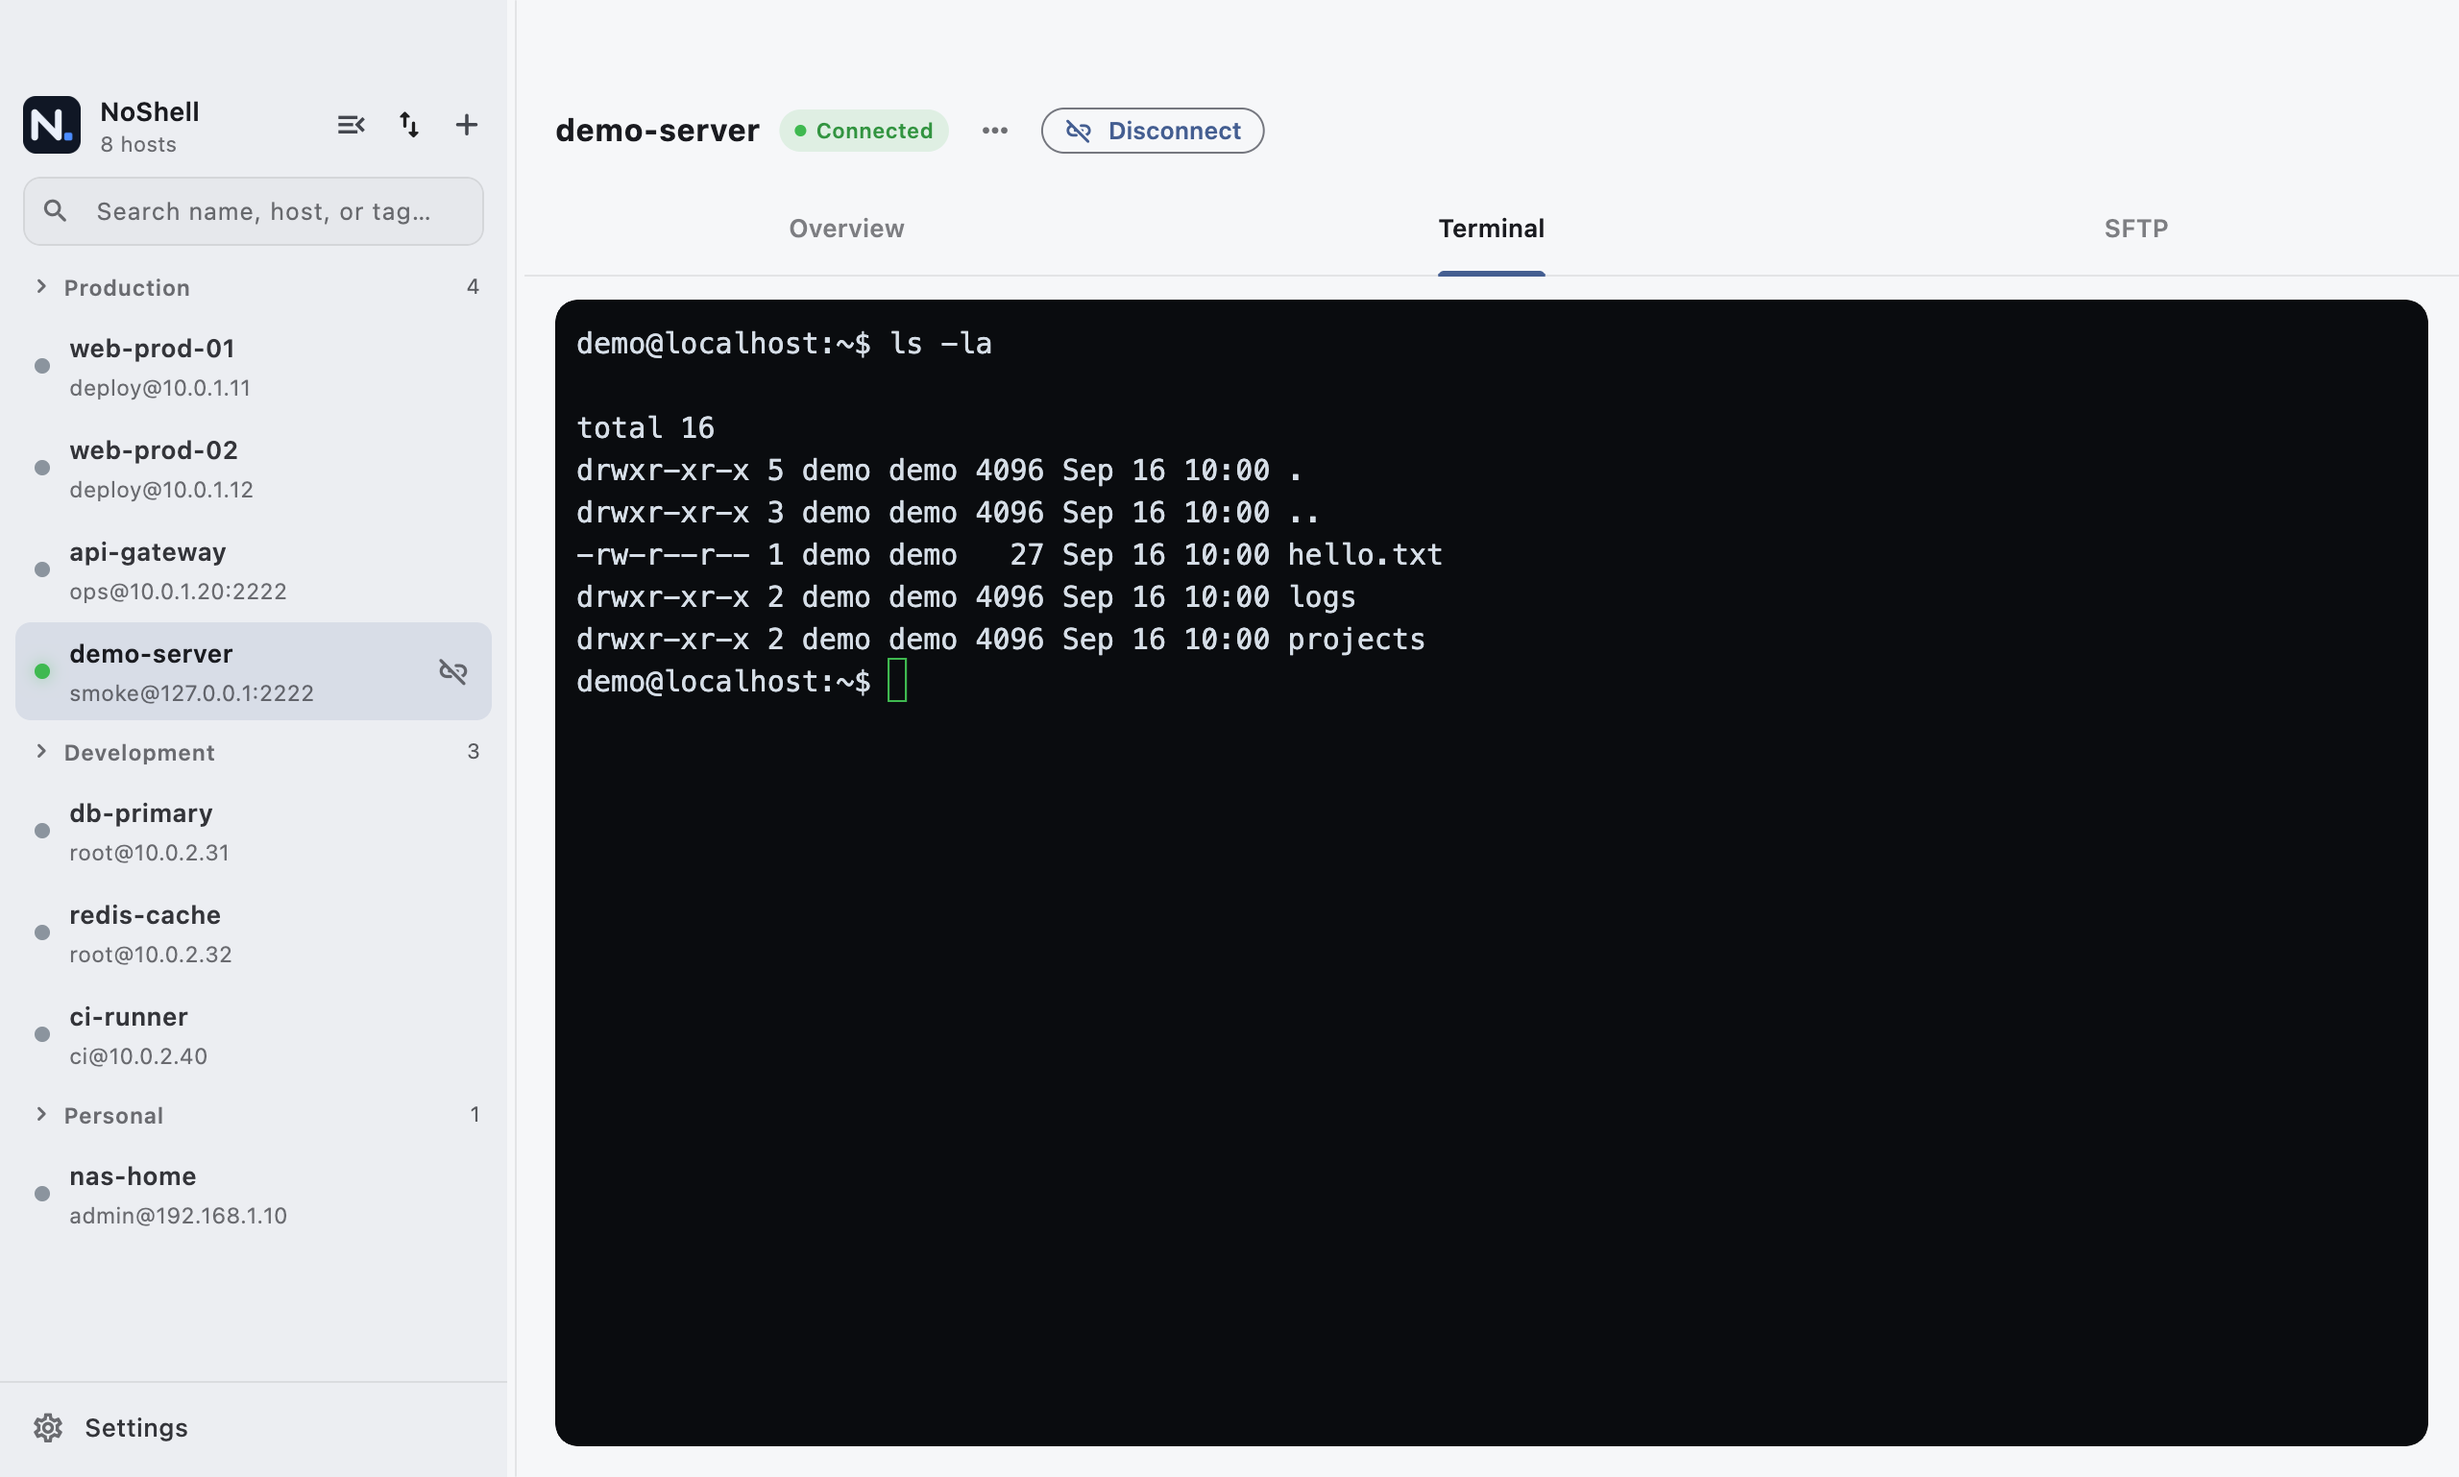
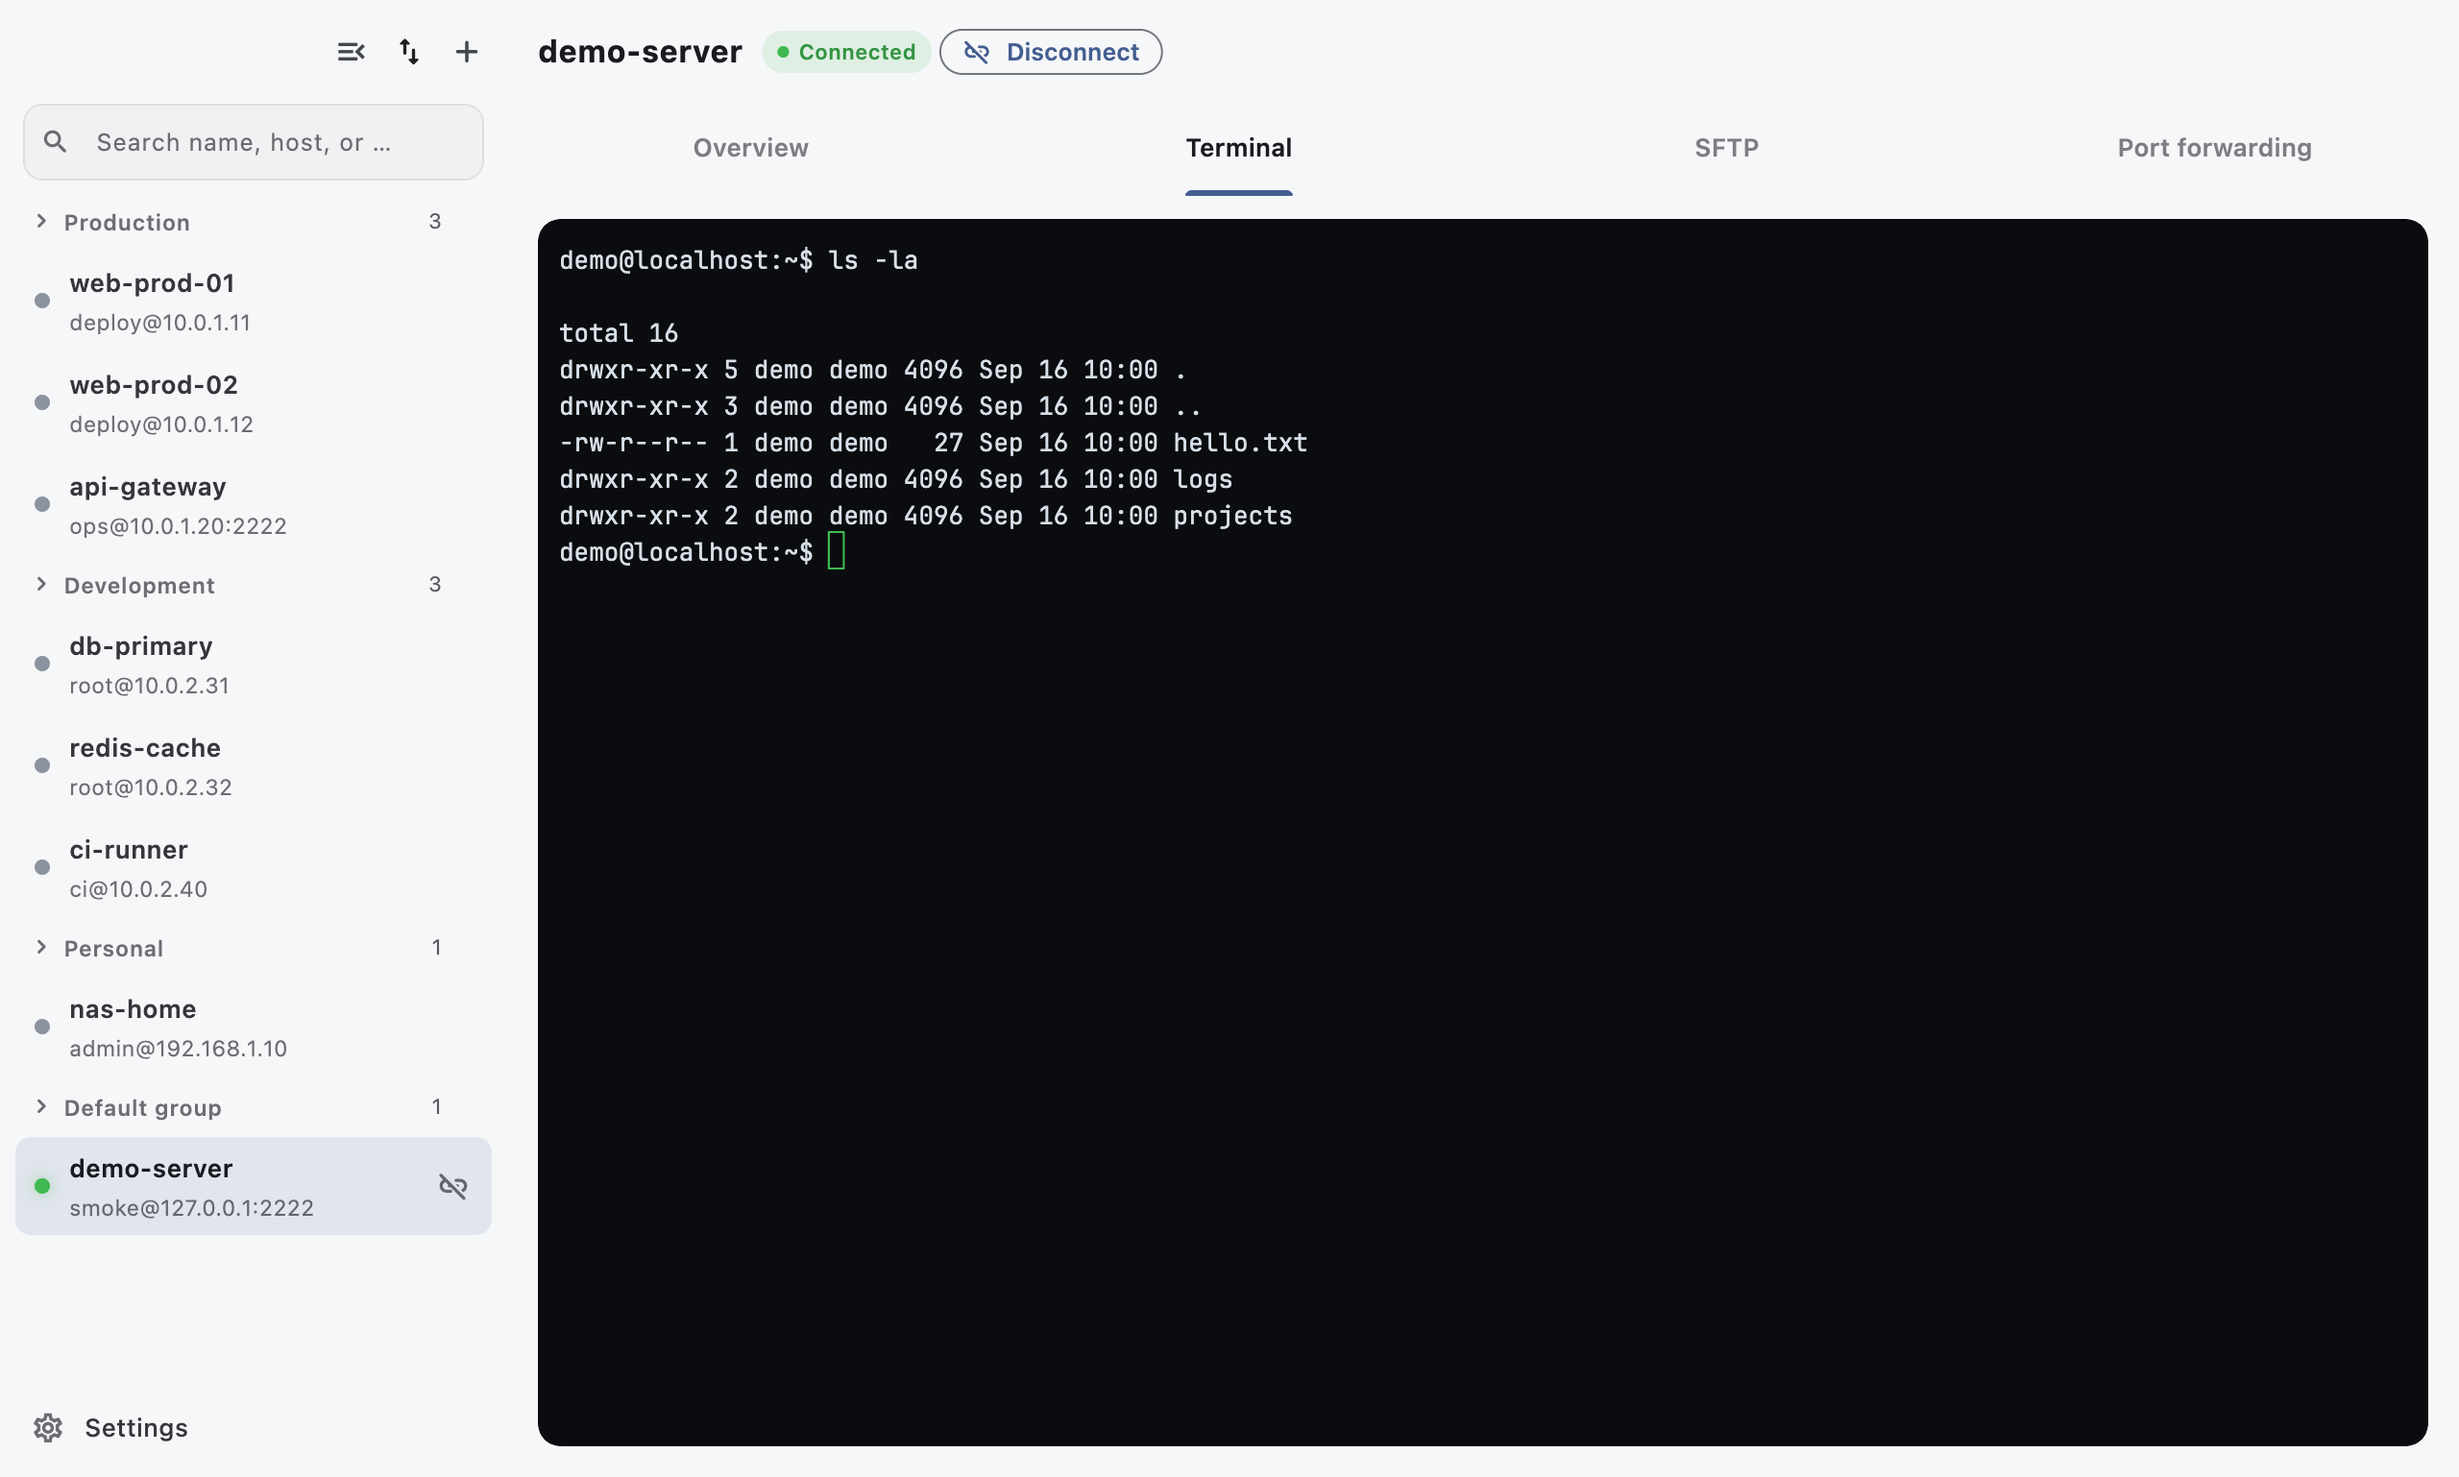
test(screenshots): 修正随 UI 增长失效的 finder，重生成截图
侧边栏与详情空态各有一枚 add_rounded，按所属组件限定 finder；四个
Tab 子树常驻挂载后 SFTP 空态标题与 Tab 头同文案，Tab 头取树序第一个。
顺带重生成 README 截图（含本次标签统一后的界面）。

Changed region(s): [[0.0, 0.0312, 1.0, 0.9675], [0.0, 0.0624, 0.1875, 0.156], [0.0, 0.749, 0.125, 0.8427]]

diff --git a/integration_test/screenshots_test.dart b/integration_test/screenshots_test.dart
@@ -16,6 +16,7 @@ import 'package:window_manager/window_manager.dart';
 
 import 'package:no_shell/main.dart';
 import 'package:no_shell/models.dart';
+import 'package:no_shell/widgets/sidebar.dart';
 import 'package:no_shell/ssh/terminal_view.dart';
 import 'package:no_shell/store.dart';
 
@@ -154,7 +155,13 @@ void main() {
     await shot('01-desktop-overview');
 
     // 2. 新建连接对话框：本机演示服务端。
-    await tester.tap(find.byIcon(Icons.add_rounded));
+    // 详情面板空态也有同图标按钮，finder 限定侧边栏避免歧义。
+    await tester.tap(
+      find.descendant(
+        of: find.byType(Sidebar),
+        matching: find.byIcon(Icons.add_rounded),
+      ),
+    );
     await settle(600);
     final dialogFields = find.descendant(
       of: find.byType(AlertDialog),
@@ -218,7 +225,8 @@ void main() {
     await shot('04-terminal');
 
     // 5. SFTP：进入 Tab 等目录列表渲染完成。
-    await tester.tap(find.text('SFTP'));
+    // 四个 Tab 子树常驻挂载，SFTP 空态标题也含同文案，Tab 头取树序第一个。
+    await tester.tap(find.text('SFTP').first);
     await tester.runAsync(() async {
       final deadline = DateTime.now().add(const Duration(seconds: 20));
       while (DateTime.now().isBefore(deadline)) {
